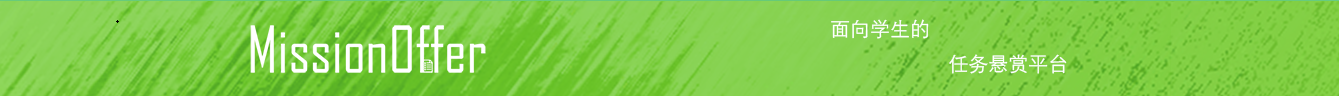
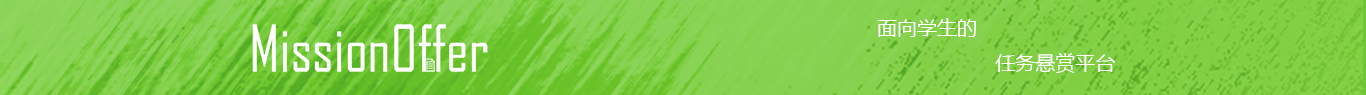
changes

diff --git a/前端/主页面/framework.css b/前端/主页面/framework.css
@@ -9,7 +9,7 @@
         height:45px;
         width:100%;
         font-size:180%;
-        background:url(top.png);
+        background:url(top.png) no-repeat;
         display:inline;
       }
      #boss2{
@@ -46,7 +46,7 @@
         left:0%;
         height:95px;
         width:100%;
-        background:url(boss4.png);
+        background:url(boss4.png) no-repeat;
       }
       #boss5{
         margin:0px;
